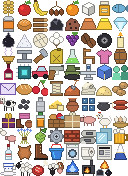
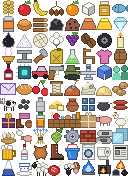
Split the general food car into one for grown food and one of 25 for bread, cans, meat, dairy products, sausages and juice, opened by Provision vans after Mixed food vans.

Changed region(s): [[0.0, 0.625, 1.0, 1.0]]

diff --git a/tests/test_general_cars.py b/tests/test_general_cars.py
@@ -3,7 +3,7 @@ from test_railway import joined_stations
 
 from railroads.sim.goods import General, Good, Need
 from railroads.sim.railway import Railway
-from railroads.sim.tech import GENERAL_CARS
+from railroads.sim.tech import GENERAL_CARS, NODES
 from railroads.sim.trains import Stop, Train
 
 HERE, THERE = (6, 3), (6, 20)
@@ -31,13 +31,13 @@ def test_a_general_car_needs_its_tech() -> None:
 def test_a_general_food_car_takes_the_food_that_pays_best_at_the_next_stop() -> None:
     _, railway = joined_stations()
     train = general_train(railway)
-    railway.station_goods(HERE).stockpile.update({Good.FISH: 100.0, Good.CANS: 100.0})
+    railway.station_goods(HERE).stockpile.update({Good.FISH: 100.0, Good.HONEY: 100.0})
     railway.station_demand(THERE).capacity = {Need.FOOD: 1000.0}
 
     railway.calls.arrive(train, train.stops[0])
 
     (car,) = train.cars
-    assert (car.general, car.good) == (General.FOOD, Good.CANS)
+    assert (car.general, car.good) == (General.FOOD, Good.HONEY)
     assert car.load == pytest.approx(car.capacity)
 
 
@@ -56,7 +56,7 @@ def test_a_general_car_unloads_its_food_where_it_is_wanted_and_stays_on_for_the_
     _, railway = joined_stations()
     train = general_train(railway)
     train.stops[1].cars = [General.FOOD]
-    railway.station_goods(HERE).stockpile[Good.BREAD] = 30.0
+    railway.station_goods(HERE).stockpile[Good.APPLES] = 30.0
     railway.station_demand(THERE).capacity = {Need.FOOD: 1000.0}
     railway.calls.arrive(train, train.stops[0])
     train.heading = 0
@@ -65,4 +65,23 @@ def test_a_general_car_unloads_its_food_where_it_is_wanted_and_stays_on_for_the_
 
     (car,) = train.cars
     assert car.general == General.FOOD
-    assert railway.station_goods(THERE).held(Good.BREAD) == pytest.approx(30.0)
+    assert railway.station_goods(THERE).held(Good.APPLES) == pytest.approx(30.0)
+
+
+def test_a_general_processed_food_car_carries_less_and_takes_no_grown_food() -> None:
+    _, railway = joined_stations()
+    railway.research.taken.add(GENERAL_CARS[General.FOOD])
+    train = general_train(railway, General.PROCESSED_FOOD)
+    railway.station_goods(HERE).stockpile.update({Good.APPLES: 100.0, Good.BREAD: 100.0})
+
+    railway.calls.arrive(train, train.stops[0])
+
+    (car,) = train.cars
+    assert car.good == Good.BREAD
+    assert car.capacity == pytest.approx(railway.car_capacity(Good.BREAD, train.engine) / 2)
+
+
+def test_the_processed_food_car_is_the_next_tech_after_the_food_car() -> None:
+    _, processed = NODES[GENERAL_CARS[General.PROCESSED_FOOD]]
+
+    assert processed.requires == (GENERAL_CARS[General.FOOD],)

diff --git a/src/railroads/sim/railway.py b/src/railroads/sim/railway.py
@@ -79,6 +79,7 @@ from railroads.sim.trains import (
     Stop,
     Train,
     car_size,
+    general_car_size,
 )
 
 if TYPE_CHECKING:
@@ -271,10 +272,14 @@ class Railway:
         player's business and tech take off."""
         return running_cost(ENGINES[engine], self.year, self.business()) * self._upkeep()
 
-    def car_capacity(self, good: Good, engine: str | None = None) -> float:
-        """How much of a good one car carries: coaches and mail vans more with tech, and every
-        car pulled by a diesel engine more (Engine.car_size)."""
-        size = car_size(good) * (1.0 if engine is None else ENGINES[engine].car_size)
+    def car_capacity(
+        self, good: Good, engine: str | None = None, general: General | None = None
+    ) -> float:
+        """How much of a good one car carries, a general car of a kind (general_car_size) or
+        one for the good alone: coaches and mail vans more with tech, and every car pulled by a
+        diesel engine more (Engine.car_size)."""
+        base = car_size(good) if general is None else general_car_size(general, good)
+        size = base * (1.0 if engine is None else ENGINES[engine].car_size)
         if good in TRAVELLERS:
             return size * (1.0 + self.research.bonus(Effect.COACHES))
         return size

diff --git a/src/railroads/sim/calls.py b/src/railroads/sim/calls.py
@@ -88,7 +88,7 @@ class StationCalls:
         railway = self._railway
         if isinstance(cargo, General):
             good = GENERAL_GOODS[cargo][0]
-            return Car(good, capacity=railway.car_capacity(good, engine), general=cargo)
+            return Car(good, capacity=railway.car_capacity(good, engine, cargo), general=cargo)
         return Car(cargo, capacity=railway.car_capacity(cargo, engine))
 
     def _swap_cars(
@@ -162,7 +162,7 @@ class StationCalls:
         demand = None if destination is None else self._railway.station_demand(destination)
         best: tuple[float, float, Good] | None = None
         for good in GENERAL_GOODS[car.general]:
-            capacity = self._railway.car_capacity(good, train.engine)
+            capacity = self._railway.car_capacity(good, train.engine, car.general)
             amount = min(capacity, self.spare(stop, good))
             if amount <= 1e-9:
                 continue
@@ -173,4 +173,4 @@ class StationCalls:
                 best = (worth, amount, good)
         if best is not None:
             car.good = best[2]
-            car.capacity = self._railway.car_capacity(best[2], train.engine)
+            car.capacity = self._railway.car_capacity(best[2], train.engine, car.general)

diff --git a/src/railroads/ui/pixel/good_icons.py b/src/railroads/ui/pixel/good_icons.py
@@ -1003,11 +1003,21 @@ def _crate(p: Painter) -> None:
 
 
 def general_food() -> Sprite:
-    """A crate heaped with a loaf, an apple and a fish."""
+    """A crate heaped with an ear of wheat, an apple and a fish."""
     p = _canvas()
-    p.ellipse(-7, -6, 1, -1, (212, 150, 76))
-    p.ellipse(0, -7, 6, -1, (212, 42, 58))
+    p.line([(-6, 0), (-4, -8)], (232, 190, 86))
+    p.ellipse(-3, -7, 3, -1, (212, 42, 58))
     p.polygon([(2, -3), (8, -5), (8, -1)], (110, 170, 200))
+    _crate(p)
+    return p.sprite()
+
+
+def general_processed_food() -> Sprite:
+    """A crate heaped with a loaf, a tin and a bottle of juice."""
+    p = _canvas()
+    p.ellipse(-8, -5, -1, -1, (212, 150, 76))
+    p.rect(0, -6, 3, -1, (176, 184, 196))
+    p.rect(4, -8, 7, -1, (244, 152, 40))
     _crate(p)
     return p.sprite()
 
@@ -1097,6 +1107,7 @@ ICONS: dict[str, Callable[[], Sprite]] = {
     "common goods": common_goods,
     "juice": juice,
     "general food": general_food,
+    "general processed food": general_processed_food,
     "general common goods": general_common_goods,
     "pigs": pigs,
     "chickens": chickens,

diff --git a/src/railroads/sim/tech.py b/src/railroads/sim/tech.py
@@ -97,7 +97,15 @@ TREES: Mapping[Tree, tuple[Node, ...]] = MappingProxyType(
                 E.UNLOCK,
                 0.0,
                 "stalls",
-                opens="general food cars, taking whichever food pays best",
+                opens="general food cars, taking whichever grown food pays best",
+            ),
+            _n(
+                "provision_vans",
+                "Provision vans",
+                E.UNLOCK,
+                0.0,
+                "mixed_vans",
+                opens="general processed food cars of 25, taking whichever pays best",
             ),
             _n("bread", "Branded bread", E.PRICE, 0.1, "stalls"),
             _n("fertiliser", "Fertiliser", E.PRODUCTION, 0.2, "rotation"),
@@ -323,7 +331,11 @@ SHOPS = frozenset(
 
 # The node that opens each general car (railroads.sim.trains).
 GENERAL_CARS: Mapping[General, str] = MappingProxyType(
-    {General.FOOD: "mixed_vans", General.COMMON: "parcel_vans"}
+    {
+        General.FOOD: "mixed_vans",
+        General.PROCESSED_FOOD: "provision_vans",
+        General.COMMON: "parcel_vans",
+    }
 )
 
 

diff --git a/src/railroads/sim/trains.py b/src/railroads/sim/trains.py
@@ -9,8 +9,10 @@ which carries nothing but weighs and costs like any other car.
 
 Freight remembers where it came from as parcels: how much from each station."""
 
+from collections.abc import Mapping
 from dataclasses import dataclass, field
 from enum import Enum
+from types import MappingProxyType
 
 from railroads.sim.finance import TRAIN_PRICE
 from railroads.sim.goods import General, Good
@@ -114,6 +116,15 @@ def car_size(good: Good) -> float:
     if good in MEDIUM_CAR_GOODS:
         return MEDIUM_CAR
     return CAR_CAPACITY
+
+
+# The most a general car of a kind carries, whatever it holds: processed food rides in medium cars.
+GENERAL_CAR_MOST: Mapping[General, float] = MappingProxyType({General.PROCESSED_FOOD: MEDIUM_CAR})
+
+
+def general_car_size(general: General, good: Good) -> float:
+    """How much of a good one general car of a kind carries, before what engines add."""
+    return min(car_size(good), GENERAL_CAR_MOST.get(general, car_size(good)))
 
 
 # About how long an engine with its tender, and each car, are on the map, in cells.

diff --git a/src/railroads/sim/goods.py b/src/railroads/sim/goods.py
@@ -206,16 +206,25 @@ COMMON_GOODS = (
 )
 
 
+# Food made from other goods; the rest of the food is grown, caught or gathered.
+PROCESSED_FOODS = (Good.CANS, Good.BREAD, Good.MEAT, Good.DAIRY, Good.SAUSAGES, Good.JUICE)
+
+
 class General(Enum):
     """A car for a whole kind of goods (railroads.sim.trains), which takes whichever of them pays
     best where the train goes next."""
 
     FOOD = "general food"
+    PROCESSED_FOOD = "general processed food"
     COMMON = "general common goods"
 
 
 GENERAL_GOODS: Mapping[General, tuple[Good, ...]] = MappingProxyType(
-    {General.FOOD: FOODS, General.COMMON: COMMON_GOODS}
+    {
+        General.FOOD: tuple(good for good in FOODS if good not in PROCESSED_FOODS),
+        General.PROCESSED_FOOD: PROCESSED_FOODS,
+        General.COMMON: COMMON_GOODS,
+    }
 )
 
 # The goods that meet each need.
